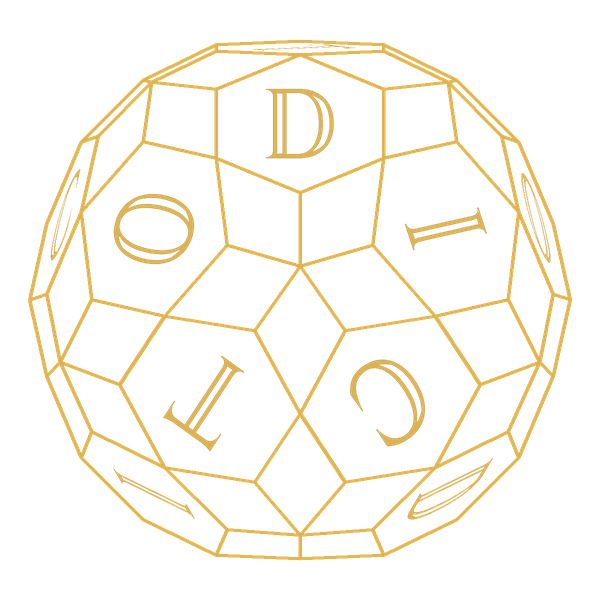
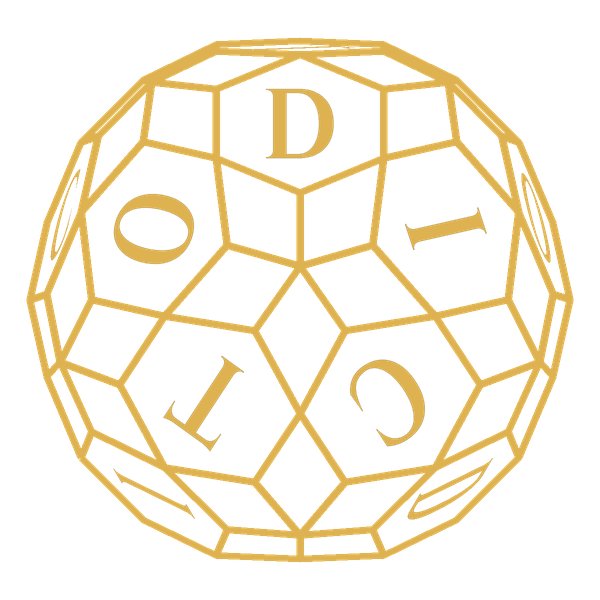
OG line drawing: bolder lines and letter outlines (DICTO)

diff --git a/studies/2026-10-22-dicto-square/og_letters.py b/studies/2026-10-22-dicto-square/og_letters.py
@@ -99,7 +99,7 @@ def render(img,cx,cy,rad,SS=2):
             rgb=dark+(lite-dark)*lam[...,None]**1.3; rgb=rgb+(255-rgb)*h[...,None]*0.8
             tile=Image.fromarray(np.clip(rgb,0,255).astype(np.uint8)); mask=Image.fromarray((ndimage.gaussian_filter(M,0.6)*255).astype(np.uint8))
             if LINE:   # the letter as a gold outline
-                ins=M>0.5; ring=ins & ~ndimage.binary_erosion(ins,iterations=max(1,int(px*0.035)))
+                ins=M>0.5; ring=ins & ~ndimage.binary_erosion(ins,iterations=max(1,int(px*0.07)))
                 tile=Image.new('RGB',(px,px),GOLD); mask=Image.fromarray((ndimage.gaussian_filter(ring.astype(float),0.7)*255).astype(np.uint8))
             # affine map tile (px x px, side 2*r*1.6 in the facet) onto the screen
             corner=lambda a,b_: P(c+U*(a*hx)+Vv*(b_*hy))
@@ -114,7 +114,7 @@ def render(img,cx,cy,rad,SS=2):
             img.paste(t2,box[:2],m2)
 if __name__=='__main__':
     if LINE:
-        N=600; SS=2; W=N*SS; LW=int(0.006*W); img=Image.new('RGBA',(W,W),(0,0,0,0))
+        N=600; SS=2; W=N*SS; LW=int(0.012*W); img=Image.new('RGBA',(W,W),(0,0,0,0))
         render(img,W/2,W/2,0.46*W,SS); img.resize((N,N),Image.LANCZOS).save(os.path.join(here,'og-line.png'))
     else:
         N=1400; SS=2; W=N*SS; img=Image.new('RGB',(W,W),GROUND)
